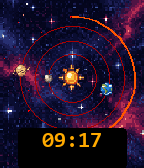
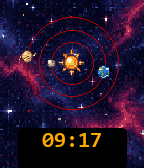
Keep planets clear of the time box and hide the battery arc by default.
Shift the orrery into the band above captions so digital time never covers planets.

diff --git a/src/pkjs/config.js b/src/pkjs/config.js
@@ -104,7 +104,7 @@ module.exports = [
         type: 'toggle',
         messageKey: 'ShowBatteryArc',
         label: 'Battery comet arc',
-        defaultValue: true
+        defaultValue: false
       },
       {
         type: 'toggle',

diff --git a/src/c/face.c b/src/c/face.c
@@ -207,12 +207,39 @@ static void update_proc(Layer *layer, GContext *ctx) {
   const FaceSettings *cfg = settings_get();
   ThemeColors theme = theme_colors(cfg->theme);
 
-  // True center on round; slight upward nudge on rect when digital captions show.
+  // Caption band first — solar system is laid out entirely above it.
 #if defined(PBL_ROUND)
-  GPoint center = GPoint(bounds.size.w / 2, bounds.size.h / 2);
+  const int caption_h = (cfg->show_digital ? 36 : 0) + (cfg->show_date ? 22 : 0) + 8;
+  const int caption_pad = 18;
+  GFont time_font = fonts_get_system_font(FONT_KEY_LECO_32_BOLD_NUMBERS);
+  GFont date_font = fonts_get_system_font(FONT_KEY_GOTHIC_18_BOLD);
+  const int time_step = 34;
+#elif defined(PBL_PLATFORM_EMERY)
+  const int caption_h = (cfg->show_digital ? 34 : 0) + (cfg->show_date ? 20 : 0) + 6;
+  const int caption_pad = 4;
+  GFont time_font = fonts_get_system_font(FONT_KEY_LECO_32_BOLD_NUMBERS);
+  GFont date_font = fonts_get_system_font(FONT_KEY_GOTHIC_18_BOLD);
+  const int time_step = 32;
 #else
-  GPoint center = GPoint(bounds.size.w / 2, bounds.size.h / 2 - (cfg->show_digital ? 6 : 0));
+  const int caption_h = (cfg->show_digital ? 28 : 0) + (cfg->show_date ? 18 : 0) + 4;
+  const int caption_pad = 2;
+  GFont time_font = fonts_get_system_font(FONT_KEY_GOTHIC_28_BOLD);
+  GFont date_font = fonts_get_system_font(FONT_KEY_GOTHIC_18_BOLD);
+  const int time_step = 26;
 #endif
+
+  const bool show_captions = cfg->show_digital || cfg->show_date;
+  const int caption_top = show_captions
+      ? (bounds.size.h - caption_h - caption_pad)
+      : bounds.size.h;
+  const int time_y = caption_top;
+  const int date_y = cfg->show_digital ? caption_top + time_step : caption_top + 4;
+
+  // Orrery lives in the band above the captions so planets are never covered.
+  const int system_top = PBL_IF_ROUND_ELSE(10, 2);
+  const int system_bottom = show_captions ? (caption_top - 6) : bounds.size.h - 4;
+  const int system_h = system_bottom - system_top;
+  GPoint center = GPoint(bounds.size.w / 2, system_top + system_h / 2);
 
   graphics_context_set_fill_color(ctx, theme.bg);
   graphics_fill_rect(ctx, bounds, 0, GCornerNone);
@@ -233,13 +260,9 @@ static void update_proc(Layer *layer, GContext *ctx) {
     draw_twinkles(ctx, bounds, theme.accent);
   }
 
-  // Scale orbits to the active display (144/200/260). Leave room for captions.
-  int edge_pad = PBL_IF_ROUND_ELSE(14, 8);
-  if (cfg->show_digital || cfg->show_date) {
-    edge_pad += PBL_IF_ROUND_ELSE(10, 6);
-  }
-  const int max_r = (bounds.size.w < bounds.size.h ? bounds.size.w : bounds.size.h) / 2
-                    - edge_pad;
+  const int half_w = bounds.size.w / 2 - PBL_IF_ROUND_ELSE(12, 6);
+  const int half_h = system_h / 2 - 4;
+  const int max_r = (half_w < half_h ? half_w : half_h);
   int sec_rx = max_r * 38 / 100;
   int min_rx = max_r * 58 / 100;
   int hour_rx = max_r * 82 / 100;
@@ -258,6 +281,7 @@ static void update_proc(Layer *layer, GContext *ctx) {
     draw_orbit_ring(ctx, center, hour_rx, hour_ry, theme.orbit);
   }
 
+  // Optional battery arc — kept inside the system band (not the full dial).
   if (cfg->show_battery_arc) {
     draw_battery_arc(ctx, center, max_r - 2, theme.battery);
   }
@@ -274,31 +298,7 @@ static void update_proc(Layer *layer, GContext *ctx) {
     draw_bitmap_centered(ctx, s_mercury, sec_pt);
   }
 
-  // Captions: large time + high-contrast date. Scrim keeps them readable on nebula.
-#if defined(PBL_ROUND)
-  const int caption_h = (cfg->show_digital ? 36 : 0) + (cfg->show_date ? 22 : 0) + 8;
-  const int caption_top = bounds.size.h - caption_h - 18;
-  const int time_y = caption_top;
-  const int date_y = cfg->show_digital ? caption_top + 34 : caption_top + 4;
-  GFont time_font = fonts_get_system_font(FONT_KEY_LECO_32_BOLD_NUMBERS);
-  GFont date_font = fonts_get_system_font(FONT_KEY_GOTHIC_18_BOLD);
-#elif defined(PBL_PLATFORM_EMERY)
-  const int caption_h = (cfg->show_digital ? 34 : 0) + (cfg->show_date ? 20 : 0) + 6;
-  const int caption_top = bounds.size.h - caption_h - 4;
-  const int time_y = caption_top;
-  const int date_y = cfg->show_digital ? caption_top + 32 : caption_top + 2;
-  GFont time_font = fonts_get_system_font(FONT_KEY_LECO_32_BOLD_NUMBERS);
-  GFont date_font = fonts_get_system_font(FONT_KEY_GOTHIC_18_BOLD);
-#else
-  const int caption_h = (cfg->show_digital ? 28 : 0) + (cfg->show_date ? 18 : 0) + 4;
-  const int caption_top = bounds.size.h - caption_h - 2;
-  const int time_y = caption_top;
-  const int date_y = cfg->show_digital ? caption_top + 26 : caption_top + 1;
-  GFont time_font = fonts_get_system_font(FONT_KEY_GOTHIC_28_BOLD);
-  GFont date_font = fonts_get_system_font(FONT_KEY_GOTHIC_18_BOLD);
-#endif
-
-  if (cfg->show_digital || cfg->show_date) {
+  if (show_captions) {
     graphics_context_set_fill_color(ctx, GColorBlack);
     graphics_fill_rect(ctx,
                        GRect(bounds.size.w / 8, caption_top - 2,

diff --git a/tools/generate_store_screenshots.py b/tools/generate_store_screenshots.py
@@ -74,7 +74,7 @@ SCENES = [
         "show_seconds": True,
         "show_orbits": True,
         "show_starfield": True,
-        "show_battery": True,
+        "show_battery": False,
         "battery": 82,
         "elliptical": False,
     },
@@ -90,7 +90,7 @@ SCENES = [
         "show_seconds": True,
         "show_orbits": True,
         "show_starfield": True,
-        "show_battery": True,
+        "show_battery": False,
         "battery": 54,
         "elliptical": False,
     },
@@ -123,7 +123,7 @@ SCENES = [
         "show_seconds": True,
         "show_orbits": True,
         "show_starfield": True,
-        "show_battery": True,
+        "show_battery": True,  # one shot still demos optional arc
         "battery": 33,
         "elliptical": True,
     },
@@ -226,15 +226,31 @@ def render(w: int, h: int, scene: dict) -> Image.Image:
     canvas = Image.new("RGB", (w, h), BLACK)
     draw = ImageDraw.Draw(canvas)
     is_round = w == h
+    show_time = scene["show_digital"]
+    show_date = scene["show_date"]
+    show_captions = show_time or show_date
 
-    cy_nudge = 0 if is_round else (6 if scene["show_digital"] else 0)
-    cx, cy = w // 2, h // 2 - cy_nudge
+    if is_round:
+        time_size, date_size, pad_bottom = 28, 16, 18
+    elif w >= 200:
+        time_size, date_size, pad_bottom = 26, 15, 4
+    else:
+        time_size, date_size, pad_bottom = 22, 14, 2
+
+    block_h = (time_size + 6 if show_time else 0) + (date_size + 4 if show_date else 0) + 8
+    caption_top = h - block_h - pad_bottom if show_captions else h
+
+    # Orrery band sits entirely above the caption box.
+    system_top = 10 if is_round else 2
+    system_bottom = (caption_top - 6) if show_captions else (h - 4)
+    system_h = max(40, system_bottom - system_top)
+    cx = w // 2
+    cy = system_top + system_h // 2
 
     if scene["show_starfield"]:
         sf_path = IMG / ("starfield_round.png" if is_round else "starfield.png")
         sf = Image.open(sf_path).convert("RGB")
         if sf.size != (w, h):
-            # Center native art; do not stretch (matches watchface draw path).
             ox = (w - sf.size[0]) // 2
             oy = (h - sf.size[1]) // 2
             canvas.paste(sf, (ox, oy))
@@ -243,7 +259,9 @@ def render(w: int, h: int, scene: dict) -> Image.Image:
 
     twinkle(draw, w, h, theme["accent"], pulse=scene["second"] % 7)
 
-    max_r = min(w, h) // 2 - (14 if is_round else 8)
+    half_w = w // 2 - (12 if is_round else 6)
+    half_h = system_h // 2 - 4
+    max_r = min(half_w, half_h)
     sec_rx = max_r * 38 // 100
     min_rx = max_r * 58 // 100
     hour_rx = max_r * 82 // 100
@@ -271,7 +289,6 @@ def render(w: int, h: int, scene: dict) -> Image.Image:
             draw.line([prev, p], fill=theme["battery"], width=2)
             prev = p
 
-    # Scale sprites for basalt (down) / gabbro (slightly up)
     if w >= 260:
         scale = 1.15
     elif w >= 200:
@@ -313,23 +330,8 @@ def render(w: int, h: int, scene: dict) -> Image.Image:
             orbit_point(cx, cy, sec_rx, sec_ry, second_angle(scene["second"])),
         )
 
-    # Redraw text atop sprites — large time + bright date on a dark scrim
     draw = ImageDraw.Draw(canvas)
-    show_time = scene["show_digital"]
-    show_date = scene["show_date"]
-    if is_round:
-        time_size, date_size = 28, 16
-        pad_bottom = 18
-    elif w >= 200:
-        time_size, date_size = 26, 15
-        pad_bottom = 4
-    else:
-        time_size, date_size = 22, 14
-        pad_bottom = 2
-
-    block_h = (time_size + 6 if show_time else 0) + (date_size + 4 if show_date else 0) + 8
-    caption_top = h - block_h - pad_bottom
-    if show_time or show_date:
+    if show_captions:
         scrim = [
             w // 8,
             caption_top - 2,

diff --git a/src/c/settings.c b/src/c/settings.c
@@ -8,7 +8,8 @@ enum {
   PERSIST_SHOW_SECONDS = 5,
   PERSIST_SHOW_ORBITS = 6,
   PERSIST_SHOW_STARFIELD = 7,
-  PERSIST_SHOW_BATTERY = 8,
+  // Bumped key so older installs that defaulted the arc on pick up the new off default.
+  PERSIST_SHOW_BATTERY = 18,
   PERSIST_TWINKLE = 9,
   PERSIST_THEME = 10,
   PERSIST_HOUR_BODY = 11,
@@ -44,7 +45,7 @@ static void settings_set_defaults(void) {
   s_settings.show_seconds = true;
   s_settings.show_orbits = true;
   s_settings.show_starfield = true;
-  s_settings.show_battery_arc = true;
+  s_settings.show_battery_arc = false;
   s_settings.twinkle = true;
   s_settings.hourly_vibe = false;
   s_settings.theme = THEME_CLASSIC;

diff --git a/STORE.md b/STORE.md
@@ -40,6 +40,12 @@ Designed for Pebble Time 2 and Pebble Round 2; also runs on Pebble Time / Time S
 Solar system watchface — planets keep the hours, minutes, and seconds around a PixelLab sun.
 ```
 
+## Release notes (v1.1.2)
+
+```
+Hide battery arc by default; keep the solar system above the time/date box so planets are never covered.
+```
+
 ## Release notes (v1.1.1)
 
 ```
